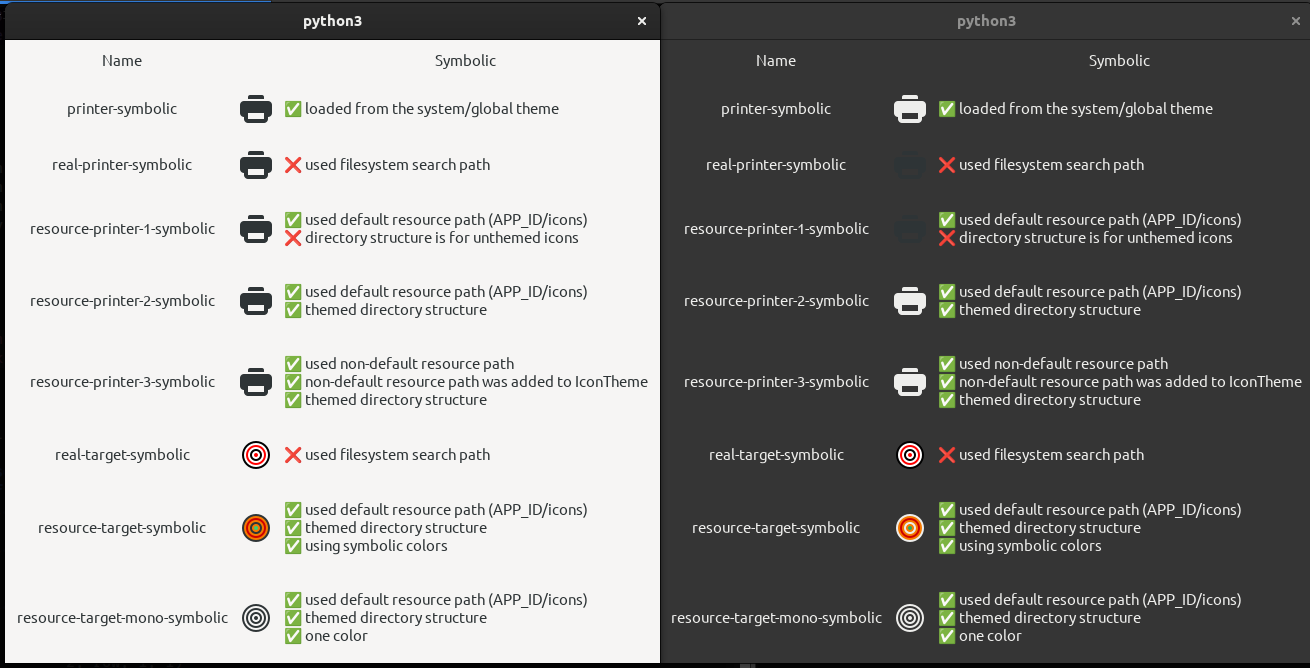
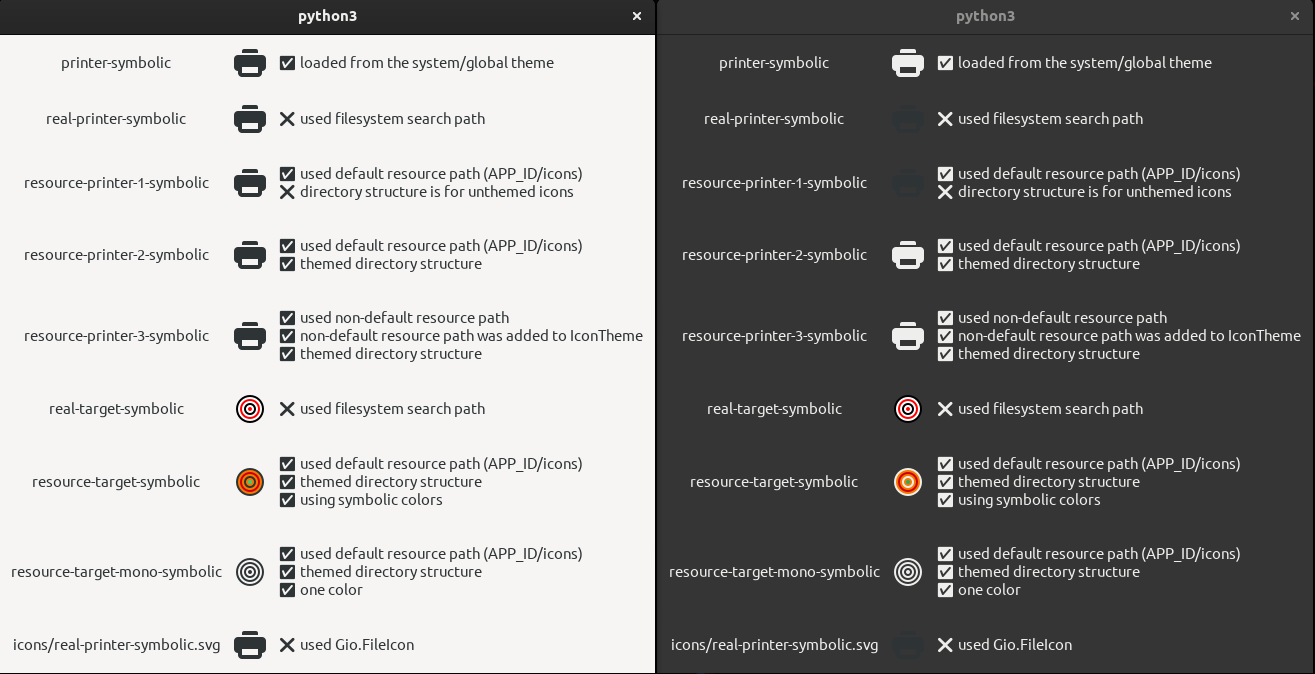
Updated screenshot.

diff --git a/main.py b/main.py
@@ -23,30 +23,33 @@ Usage:
 class App(Gtk.Application):
 
     def add_icon(self, icon_name, notes):
-        row = self.next_row
-
         self.grid.attach(Gtk.Label(label = icon_name),
-                         0, row, 1, 1)
+                         0, self.current_row, 1, 1)
         self.grid.attach(Gtk.Image(icon_name = icon_name,
                                    icon_size = Gtk.IconSize.LARGE),
-                         1, row, 1, 1)
+                         1, self.current_row, 1, 1)
         self.grid.attach(Gtk.Label(label = inspect.cleandoc(notes),
                                    halign = Gtk.Align.START,
                                    ellipsize = Pango.EllipsizeMode.END),
-                         2, row, 1, 1)
+                         2, self.current_row, 1, 1)
 
-        self.next_row += 1
+        self.current_row += 1
 
 
-    def add_gficon(self, filename):
+    def add_gficon(self, filename, notes):
         self.grid.attach(Gtk.Label(label = filename),
-                         0, self.next_row, 1, 1)
+                         0, self.current_row, 1, 1)
         f = Gio.File.new_for_path(filename)
         icon = Gio.FileIcon.new(f)
         self.grid.attach(Gtk.Image(gicon = icon,
                                    icon_size = Gtk.IconSize.LARGE),
-                         1, self.next_row, 1, 1)
-        self.next_row += 1
+                         1, self.current_row, 1, 1)
+        self.grid.attach(Gtk.Label(label = inspect.cleandoc(notes),
+                                   halign = Gtk.Align.START,
+                                   ellipsize = Pango.EllipsizeMode.END),
+                         2, self.current_row, 1, 1)
+
+        self.current_row += 1
 
 
     def do_activate(self):
@@ -60,7 +63,7 @@ class App(Gtk.Application):
                              margin_start = 12,
                              margin_end = 12)
 
-        self.next_row = 0
+        self.current_row = 0
 
         self.add_icon("printer-symbolic",
                       """
@@ -110,10 +113,10 @@ class App(Gtk.Application):
                       ✅ one color
                       """)
 
-        self.add_gficon("icons/real-printer-symbolic.svg")
-        self.add_gficon("icons/real-target-symbolic.svg")
-        self.add_gficon("icons/real-target-mono-symbolic.svg")
-
+        self.add_gficon("icons/real-printer-symbolic.svg",
+                        """
+                        ❌ used Gio.FileIcon
+                        """)
 
         win = Gtk.ApplicationWindow(application = app,
                                     child = self.grid)
